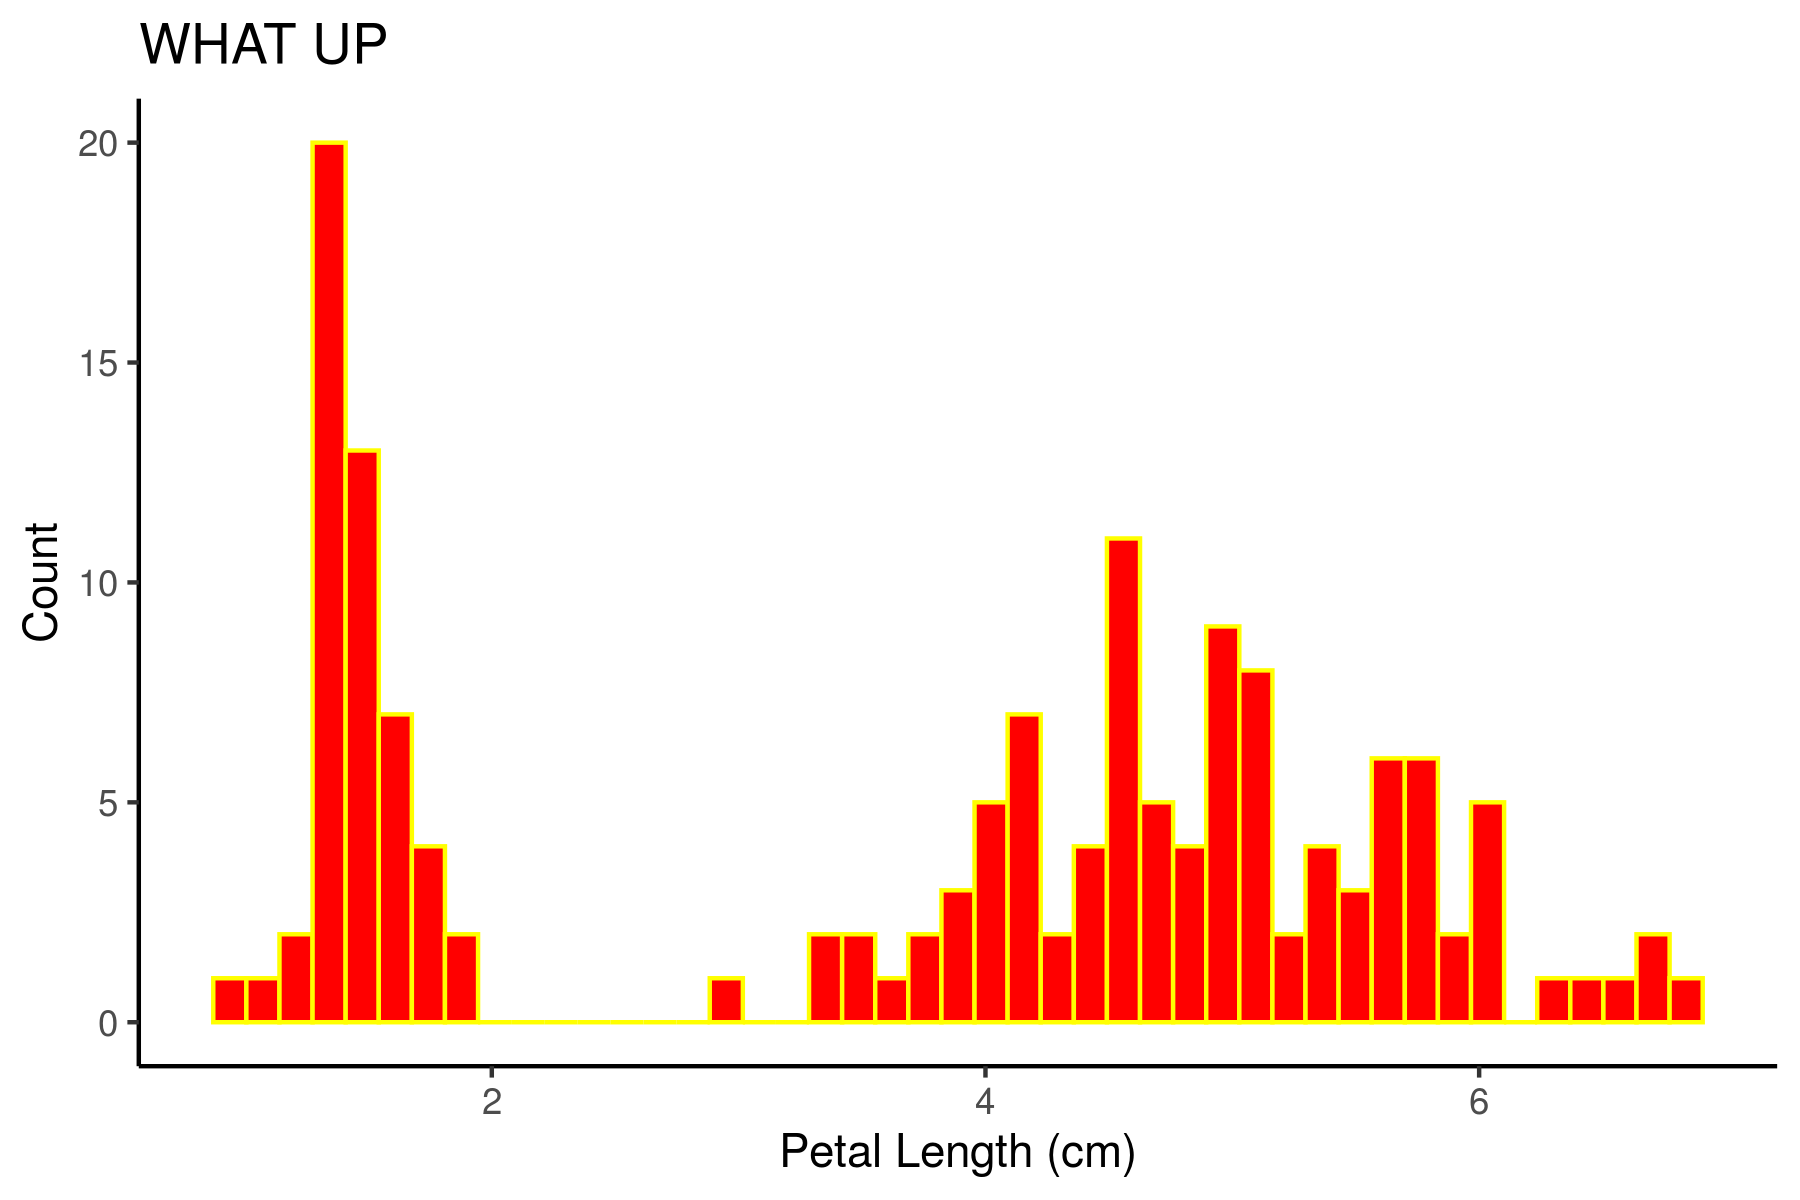
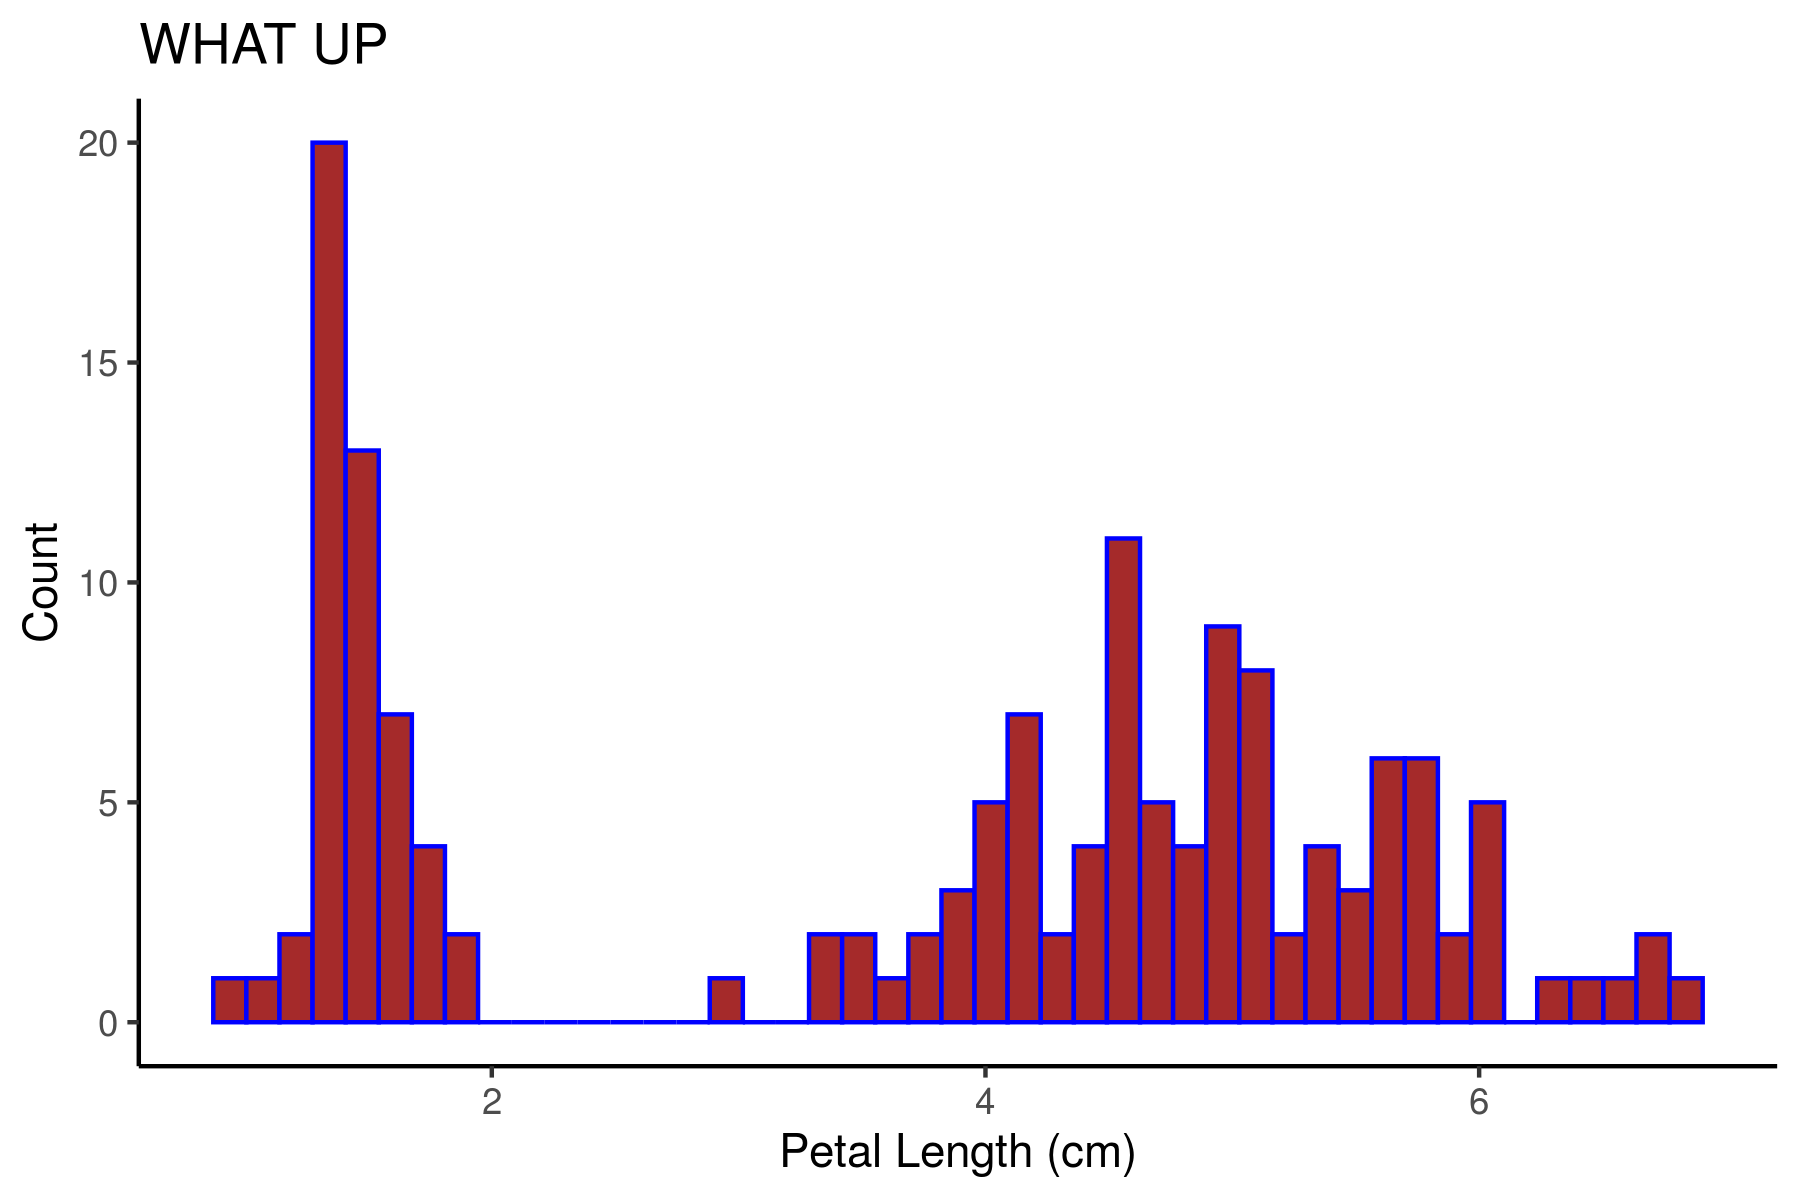
changed the color of the plot

Changed region(s): [[0.0933, 0.0925, 0.9644, 0.8633]]

diff --git a/practice_plot_github.html b/practice_plot_github.html
@@ -370,7 +370,7 @@ summary {
 
 
 <pre class="r"><code> ggplot(iris, aes(x = Petal.Length)) + 
-  geom_histogram(color = &quot;Yellow&quot;, fill = &quot;red&quot; , bins = 45) + 
+  geom_histogram(color = &quot;Blue&quot;, fill = &quot;Brown&quot; , bins = 45) + 
   theme_classic() +
  labs(x = &quot;Petal Length (cm)&quot;, y = &quot;Count&quot;, title = &quot;WHAT UP&quot;) -&gt; plot1
 ggsave(&quot;practice_plot.png&quot;, plot1, height = 4,
